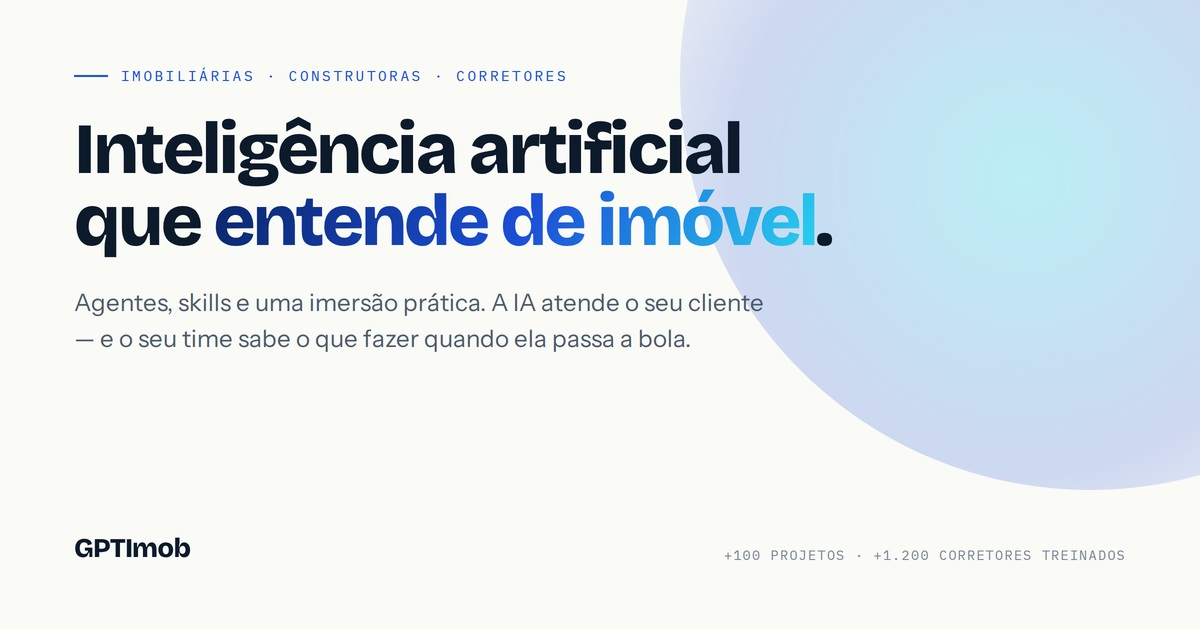
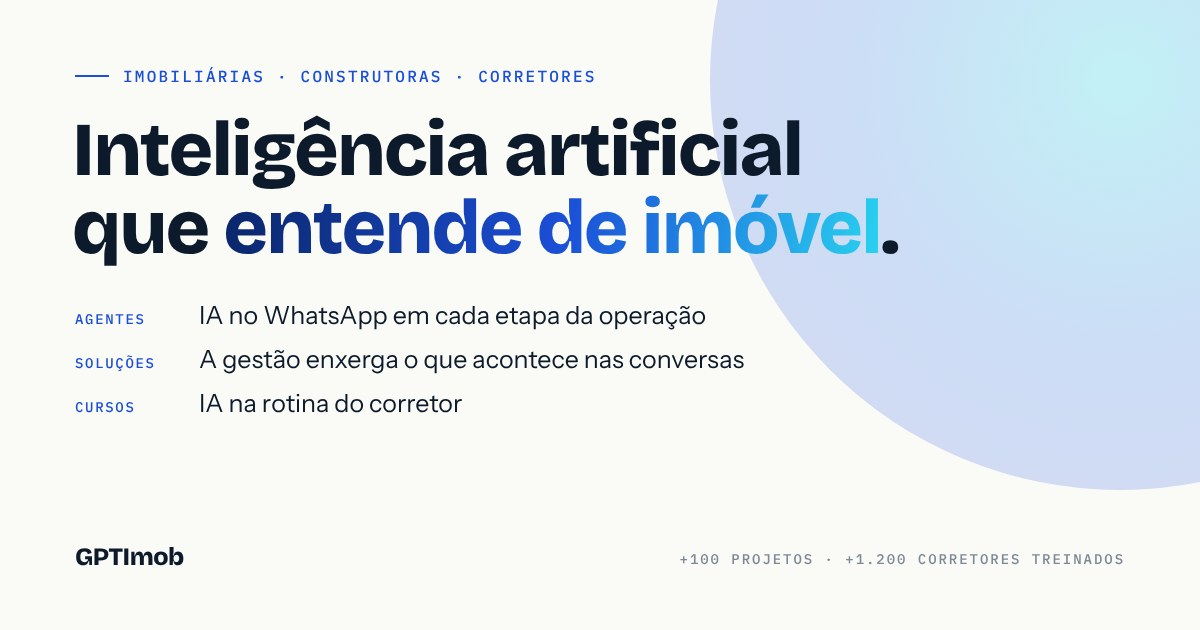
Nova thumb da home (agentes, soluções e cursos); Followup Fechador fora do índice
Claude-Session: https://claude.ai/code/session_01NnphaCCcpFTyBNsoxfCYrn

diff --git a/index.html b/index.html
@@ -14,16 +14,16 @@
 <meta property="og:title" content="GPTImob — inteligência artificial aplicada ao mercado imobiliário">
 <meta property="og:description" content="IA que entende de imóvel: agentes, soluções para a gestão e cursos. Para imobiliárias, construtoras e corretores.">
 <meta property="og:url" content="https://gptimob.com.br/">
-<meta property="og:image" content="https://gptimob.com.br/og-cover.jpg">
-<meta property="og:image:secure_url" content="https://gptimob.com.br/og-cover.jpg">
+<meta property="og:image" content="https://gptimob.com.br/og-cover.jpg?v=2">
+<meta property="og:image:secure_url" content="https://gptimob.com.br/og-cover.jpg?v=2">
 <meta property="og:image:type" content="image/jpeg">
 <meta property="og:image:width" content="1200">
 <meta property="og:image:height" content="630">
-<meta property="og:image:alt" content="GPTImob: inteligência artificial que entende de imóvel">
+<meta property="og:image:alt" content="GPTImob: inteligência artificial que entende de imóvel. Agentes, soluções e cursos para imobiliárias, construtoras e corretores.">
 <meta name="twitter:card" content="summary_large_image">
 <meta name="twitter:title" content="GPTImob — inteligência artificial aplicada ao mercado imobiliário">
 <meta name="twitter:description" content="IA que entende de imóvel: agentes, soluções para a gestão e cursos. Para imobiliárias, construtoras e corretores.">
-<meta name="twitter:image" content="https://gptimob.com.br/og-cover.jpg">
+<meta name="twitter:image" content="https://gptimob.com.br/og-cover.jpg?v=2">
 <script type="application/ld+json">{"@context": "https://schema.org", "@graph": [{"@type": "Organization", "@id": "https://gptimob.com.br/#org", "name": "GPTImob", "url": "https://gptimob.com.br/", "logo": "https://gptimob.com.br/og-cover.jpg", "description": "Inteligência artificial aplicada ao mercado imobiliário: agentes de IA, soluções de dados e cursos para imobiliárias, construtoras e corretores.", "address": {"@type": "PostalAddress", "addressLocality": "Passo Fundo", "addressRegion": "RS", "addressCountry": "BR"}, "areaServed": "BR", "founder": {"@type": "Person", "name": "Rafael Comin", "sameAs": ["https://www.instagram.com/rafaelcomin/"]}, "contactPoint": {"@type": "ContactPoint", "telephone": "+55-54-99916-6672", "contactType": "sales", "areaServed": "BR", "availableLanguage": "Portuguese"}, "hasOfferCatalog": {"@type": "OfferCatalog", "name": "Soluções e cursos da GPTImob", "itemListElement": [{"@type": "OfferCatalog", "name": "Soluções para imobiliárias e construtoras", "itemListElement": [{"@type": "Offer", "itemOffered": {"@type": "Service", "name": "Agentes de IA", "url": "https://gptimob.com.br/#imobiliarias", "description": "Agentes de IA no WhatsApp e no CRM em cada etapa da operação de imobiliárias e construtoras."}}, {"@type": "Offer", "itemOffered": {"@type": "Service", "name": "Primeira Hora", "url": "https://gptimob.com.br/primeira-hora/", "description": "Resumo do dia para donos e gestores de imobiliária."}}, {"@type": "Offer", "itemOffered": {"@type": "Service", "name": "Corretor da Vez", "url": "https://gptimob.com.br/roleta/", "description": "Roleta inteligente de leads pelo WhatsApp."}}, {"@type": "Offer", "itemOffered": {"@type": "Service", "name": "Máquina de Follow-up", "url": "https://gptimob.com.br/maquina-de-followup/", "description": "Follow-up e recuperação de leads pelo WhatsApp oficial."}}, {"@type": "Offer", "itemOffered": {"@type": "Service", "name": "Retenção de Carteira", "url": "https://gptimob.com.br/retencao-de-carteira/", "description": "Retenção de proprietários e inquilinos e conferência da carteira."}}, {"@type": "Offer", "itemOffered": {"@type": "Service", "name": "Plantão 24h", "url": "https://gptimob.com.br/plantao-24h/", "description": "Monitoramento das conversas de WhatsApp de todos os setores, com alerta ao gestor."}}, {"@type": "Offer", "itemOffered": {"@type": "Service", "name": "DNA Imob", "url": "https://gptimob.com.br/dna/", "description": "Inteligência de negócios com os dados do CRM e do WhatsApp."}}, {"@type": "Offer", "itemOffered": {"@type": "Service", "name": "Treino de Lançamento", "url": "https://gptimob.com.br/treino-de-lancamento/", "description": "Treino de negociação por voz para corretores."}}, {"@type": "Offer", "itemOffered": {"@type": "Service", "name": "Raio-X da Negociação", "url": "https://gptimob.com.br/raiox/", "description": "Análise de uma negociação no WhatsApp."}}, {"@type": "Offer", "itemOffered": {"@type": "Service", "name": "Imersão de implantação", "url": "https://gptimob.com.br/imersao/", "description": "Treinamento do time para implantar IA na operação."}}]}, {"@type": "OfferCatalog", "name": "Cursos para corretores", "itemListElement": [{"@type": "Offer", "itemOffered": {"@type": "Course", "name": "Claude no WhatsApp", "url": "https://gptimob.com.br/claude-no-whatsapp/"}}, {"@type": "Offer", "itemOffered": {"@type": "Course", "name": "Kit Essencial do Corretor", "url": "https://gptimob.com.br/kit-essencial/"}}]}]}}, {"@type": "WebSite", "@id": "https://gptimob.com.br/#site", "name": "GPTImob", "url": "https://gptimob.com.br/", "inLanguage": "pt-BR", "publisher": {"@id": "https://gptimob.com.br/#org"}}, {"@type": "WebPage", "@id": "https://gptimob.com.br/#page", "url": "https://gptimob.com.br/", "name": "GPTImob — inteligência artificial aplicada ao mercado imobiliário", "isPartOf": {"@id": "https://gptimob.com.br/#site"}, "about": {"@id": "https://gptimob.com.br/#org"}, "primaryImageOfPage": "https://gptimob.com.br/og-cover.jpg", "inLanguage": "pt-BR"}]}</script>
 <link rel="preconnect" href="https://fonts.googleapis.com">
 <link rel="preconnect" href="https://fonts.gstatic.com" crossorigin>

diff --git a/fechador/aula/index.html b/fechador/aula/index.html
@@ -3,6 +3,7 @@
 <head>
 <meta charset="UTF-8">
 <meta name="viewport" content="width=device-width, initial-scale=1, viewport-fit=cover">
+<meta name="robots" content="noindex, nofollow">
 <title>Followup Fechador — Aula</title>
 <link rel="preconnect" href="https://fonts.googleapis.com">
 <link href="https://fonts.googleapis.com/css2?family=Archivo+Black&family=Caveat:wght@700&family=Manrope:wght@400;500;700;800&display=swap" rel="stylesheet">

diff --git a/fechador/index.html b/fechador/index.html
@@ -3,6 +3,7 @@
 <head>
 <meta charset="UTF-8">
 <meta name="viewport" content="width=device-width, initial-scale=1, viewport-fit=cover">
+<meta name="robots" content="noindex, nofollow">
 <title>Followup Fechador</title>
 <link rel="preconnect" href="https://fonts.googleapis.com">
 <link href="https://fonts.googleapis.com/css2?family=Archivo+Black&family=Caveat:wght@700&family=Manrope:wght@400;500;700;800&display=swap" rel="stylesheet">
